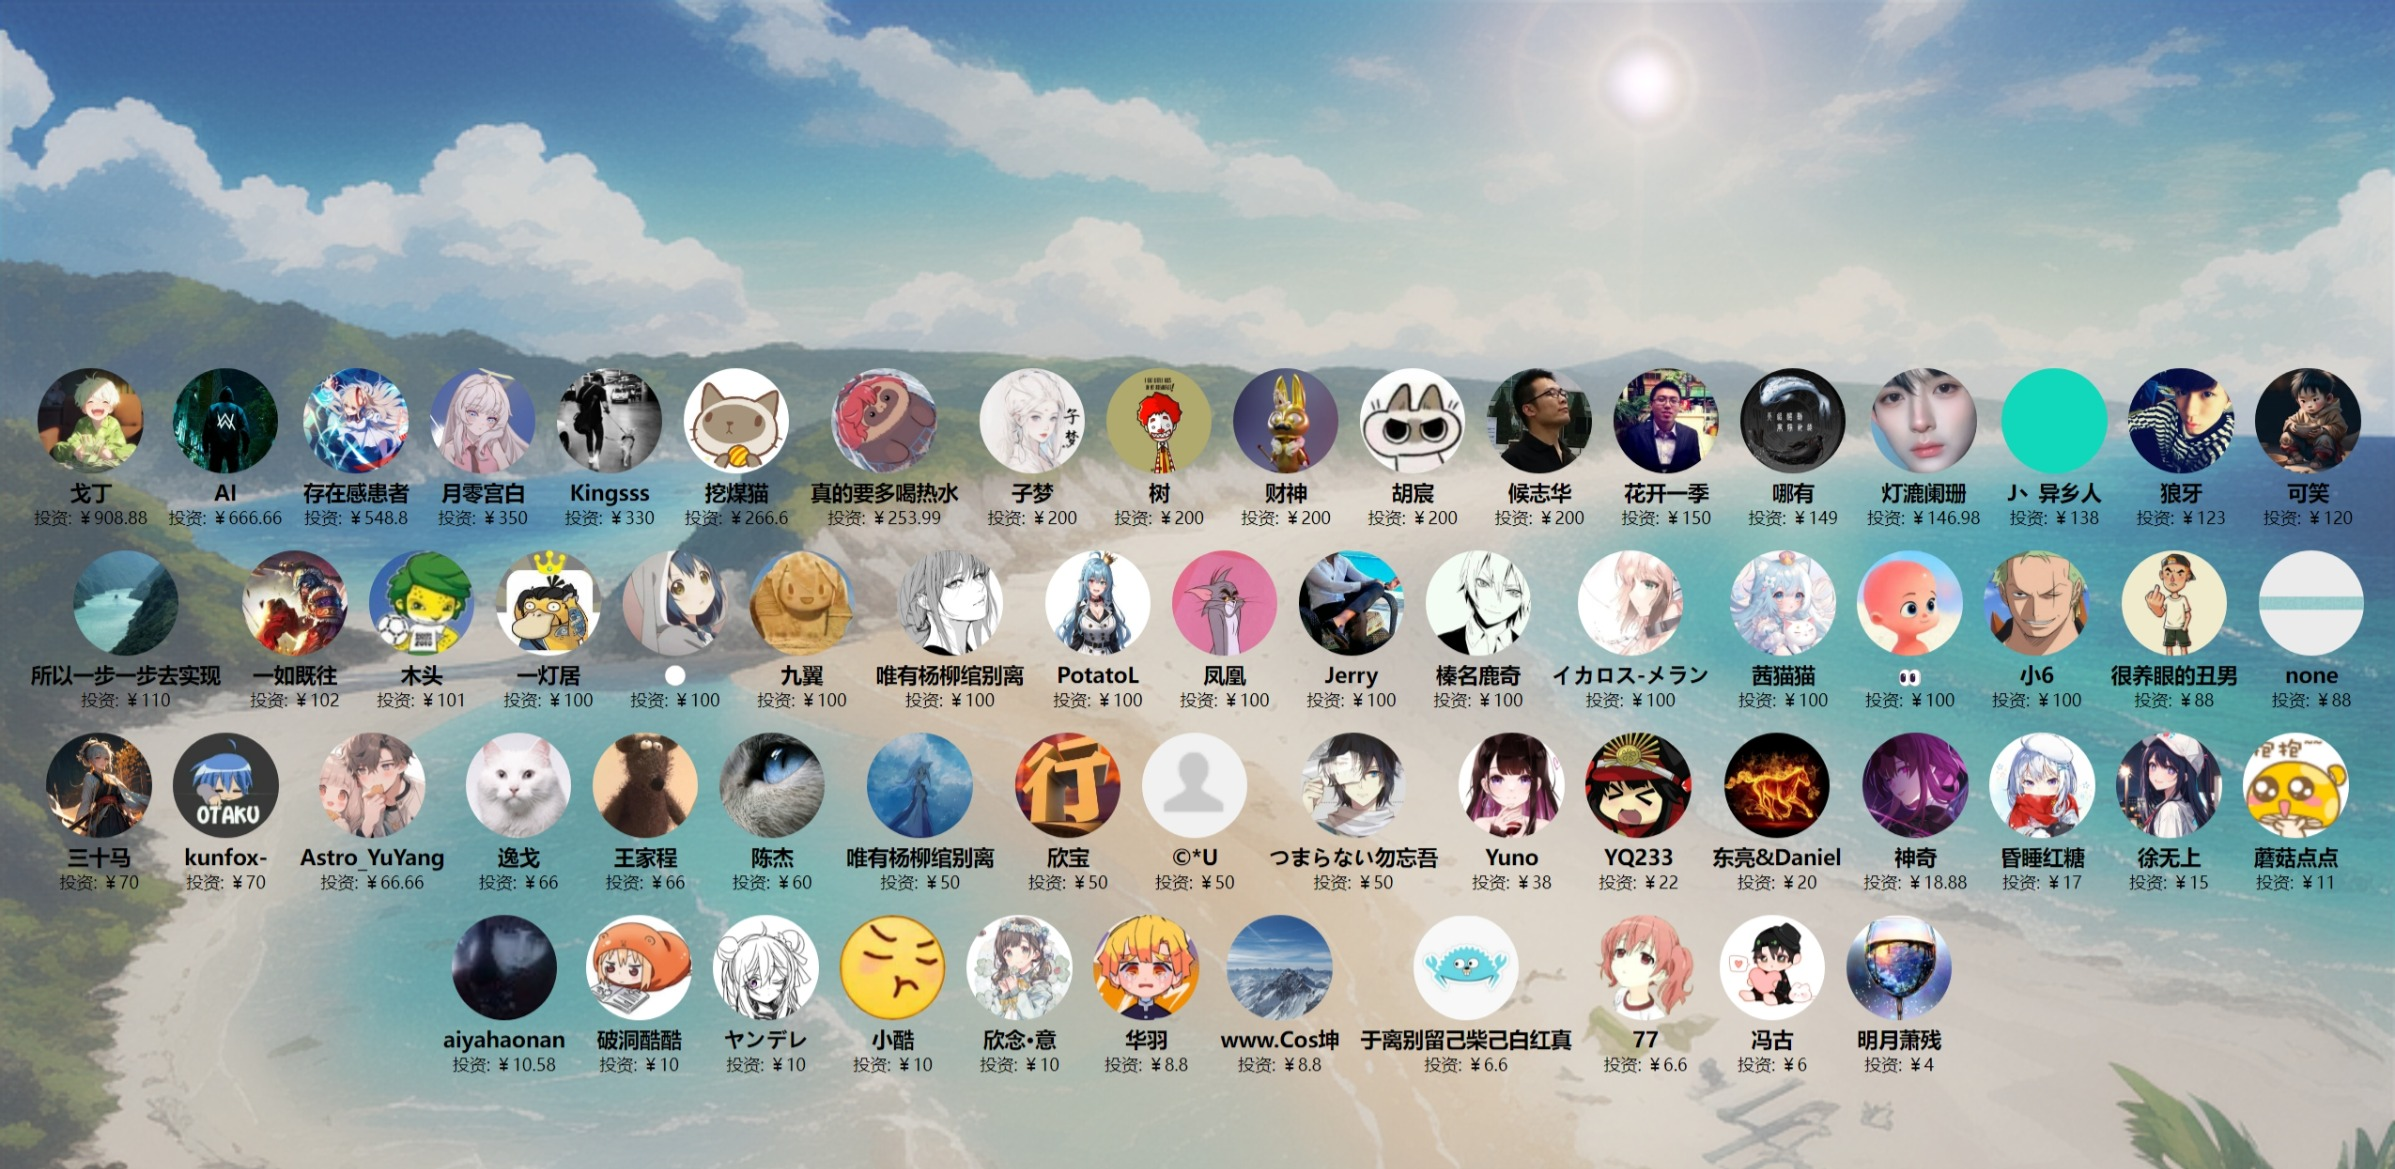
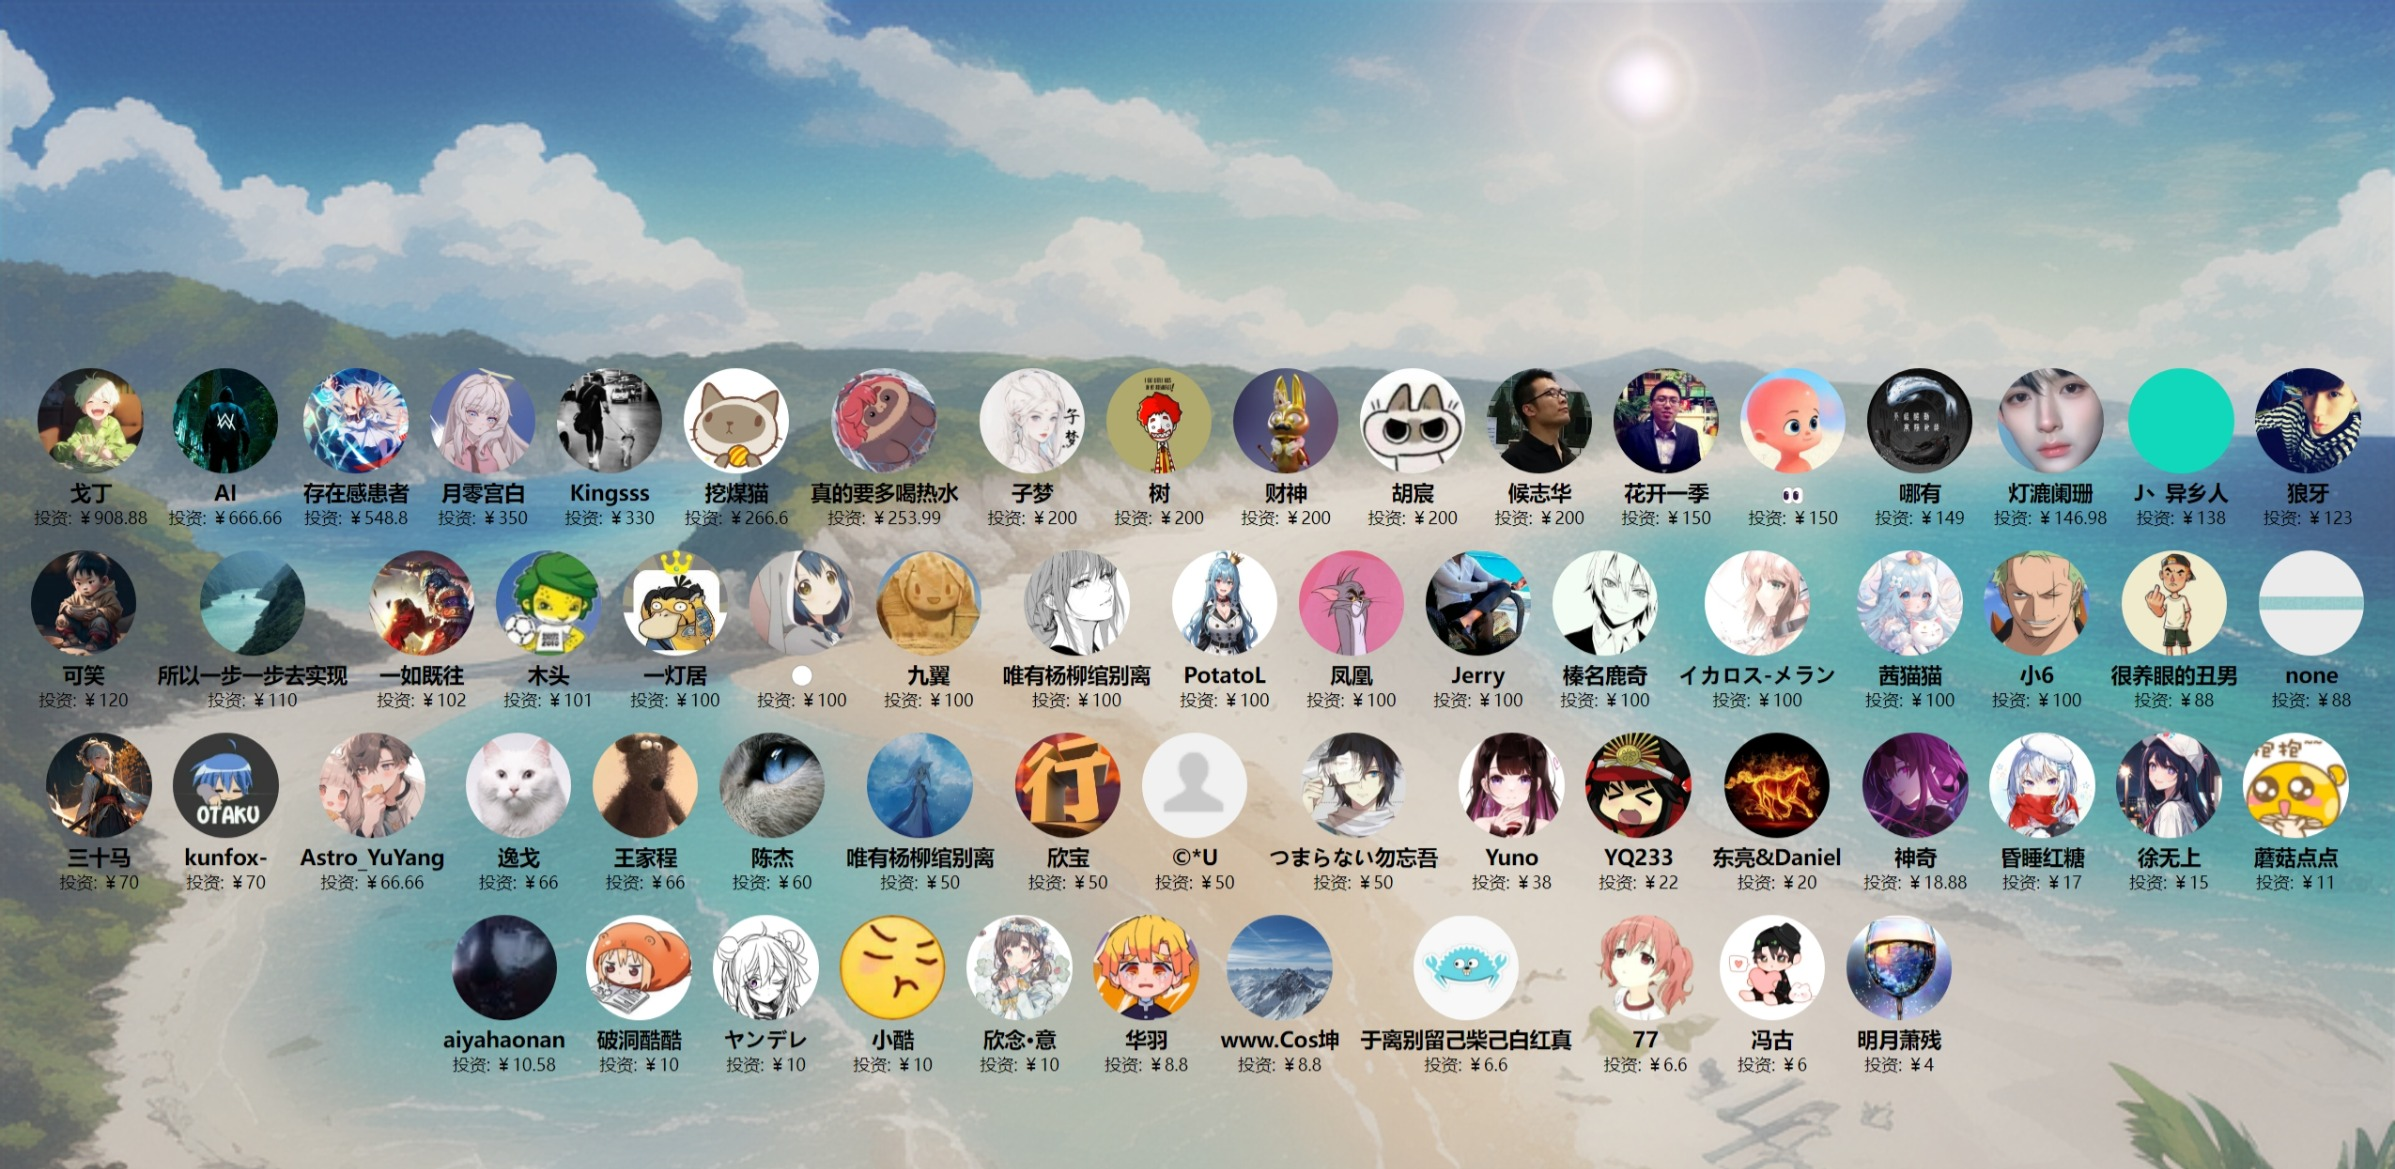
更新投资人

Changed region(s): [[0.0, 0.308, 0.9887, 0.6159]]

diff --git a/docs/投资人/index.html b/docs/投资人/index.html
@@ -117,6 +117,11 @@
             amount: "￥150"
         },
         {
+            name: "👀",
+            avatar: "https://images.cnblogs.com/cnblogs_com/ikaros-521/2328032/o_231120130618_QQ%E5%9B%BE%E7%89%8720231120210431.jpg",
+            amount: "￥150"
+        },
+        {
             name: "哪有",
             avatar: "https://images.cnblogs.com/cnblogs_com/ikaros-521/2328032/o_231010060048_QQ%E5%9B%BE%E7%89%8720231010135857.jpg",
             amount: "￥149"
@@ -204,11 +209,6 @@
         {
             name: "茜猫猫",
             avatar: "https://images.cnblogs.com/cnblogs_com/ikaros-521/2328032/o_231009131835_QQ%E5%9B%BE%E7%89%8720231009211511.jpg",
-            amount: "￥100"
-        },
-        {
-            name: "👀",
-            avatar: "https://images.cnblogs.com/cnblogs_com/ikaros-521/2328032/o_231120130618_QQ%E5%9B%BE%E7%89%8720231120210431.jpg",
             amount: "￥100"
         },
         {
